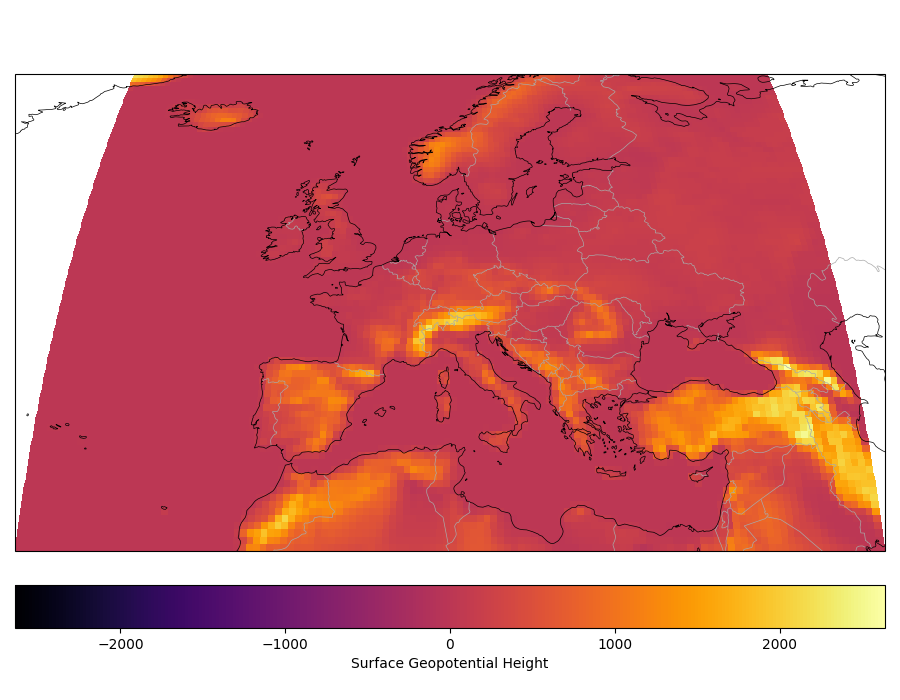
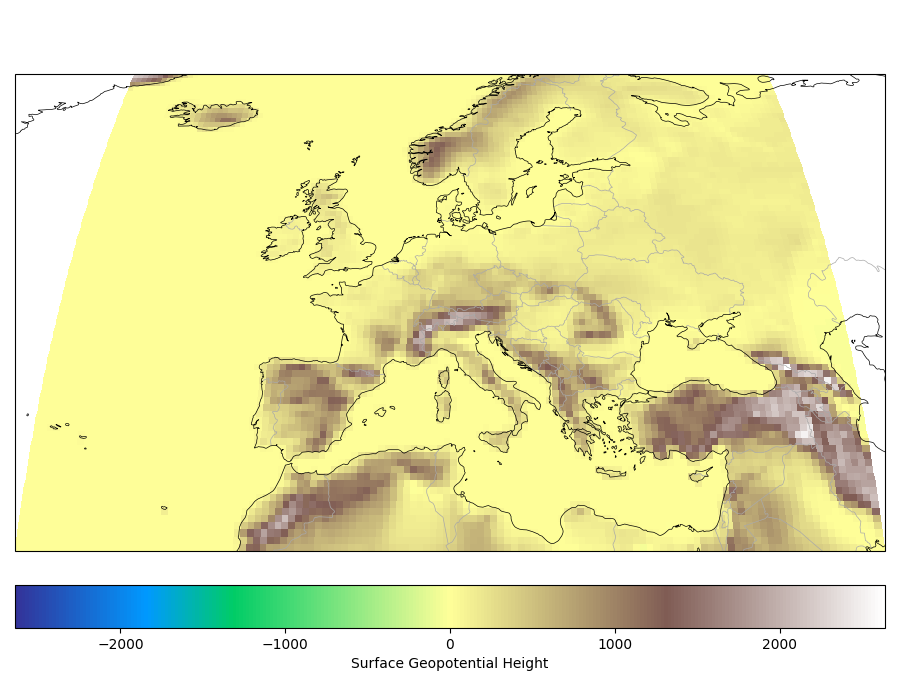
added altitude maps yay fun color yay fun

diff --git a/backgroundgraphs/leafindex_altitude.py b/backgroundgraphs/leafindex_altitude.py
@@ -6,13 +6,11 @@ import xarray as xr
 import os
 import numpy as np
 
-
-
 miscer = ["Met_LAI", "Met_PHIS"]
-plotargs = [["Leaf Area Index", "BuGn", "leafareaindex"], ["Surface Geopotential Height", "inferno", "altitude"]]
+plotargs = [["Leaf Area Index", "BuGn", "leafareaindex"], ["Surface Geopotential Height", "terrain", "altitude"]]
 
 # Which one would you like to plot: 0 Leaf Index, 1 Altitude
-ploter = 0
+ploter = 1
 
 # For loop to iterate through each type and through each variable withing each type
 fig, ax = plt.subplots(1, 1, figsize= [9, 7], subplot_kw={"projection": ccrs.EqualEarth(central_longitude=10)})

diff --git a/backgroundgraphs/leafindexjuly.py b/backgroundgraphs/leafindexjuly.py
@@ -9,7 +9,7 @@ import numpy as np
 
 
 miscer = ["Met_LAI", "Met_PHIS"]
-plotargs = [["Leaf Area Index (July)", "BuGn", "leafareaindexjuly"], ["Surface Geopotential Height (July)", "inferno", "altitudejuly"]]
+plotargs = [["Leaf Area Index (July)", "BuGn", "leafareaindexjuly"], ["Surface Geopotential Height", "gist_earth", "altitudejuly"]]
 
 # Which one would you like to plot: 0 Leaf Index, 1 Altitude
 ploter = 1
